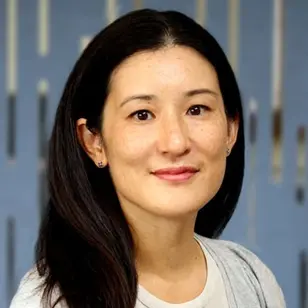
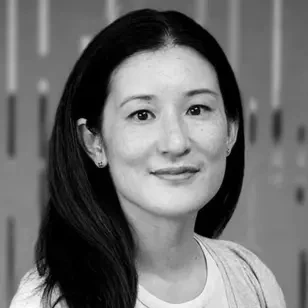
Offer copy on Services and home, Vision first on About with illustration, greyscale Frances photo

diff --git a/about.html b/about.html
@@ -1105,12 +1105,18 @@
         @media (max-width: 768px) { .page-hero { padding: 7.5rem 1.25rem 3.5rem; } }
         @media (min-width: 1024px) {
             /* Desktop: use the width. Who we are / Our vision sit side by side; the offer pairs its text with the button. */
-            #about .about-cols { display: grid; grid-template-columns: 1fr 1fr; gap: 0 5rem; }
-            #about .about-cols h2 { margin-top: 0 !important; }
-            #about .about-cols .section-desc { max-width: none !important; }
             #offer .section-inner { display: grid; grid-template-columns: minmax(0, 720px) 1fr; column-gap: 4rem; align-items: center; }
             #offer .section-inner > h2, #offer .section-inner > .section-desc { grid-column: 1; }
             #offer .section-inner > .btn-primary { grid-column: 2; grid-row: 1 / span 3; justify-self: end; }
+        }
+        /* About: vision first, with an illustration beside it on desktop */
+        #vision .vision-art { background: var(--bg-card); border-radius: 14px; padding: 1.5rem; margin-top: 2rem; }
+        #vision .vision-art img { display: block; width: 100%; height: auto; }
+        #vision .section-desc:not(:last-child) { margin-bottom: 1.25rem; }
+        #about { padding-top: 0; border-top: 0; }
+        @media (min-width: 1024px) {
+            #vision .vision-grid { display: grid; grid-template-columns: minmax(0, 1fr) minmax(0, 460px); gap: 4rem; align-items: center; }
+            #vision .vision-art { margin-top: 0; }
         }
     </style>
 </head>
@@ -1138,20 +1144,22 @@
         </div>
     </section>
 
+    <section id="vision">
+        <div class="section-inner vision-grid">
+            <div class="vision-text">
+                <h2 class="fade-up">Our vision</h2>
+                <p class="section-desc fade-up" style="max-width: 720px;">Public health decisions shape people's lives. But they are made with stretched budgets, against deep and growing inequalities, and often without the evidence decision-makers need.</p>
+                <p class="section-desc fade-up" style="max-width: 720px;">Traditional evaluation is slow. Research management takes time, and findings too often arrive after the decision has been made.</p>
+                <p class="section-desc fade-up" style="max-width: 720px;">We believe it can be done differently. By combining public health expertise with careful use of AI, we can deliver rigorous evidence faster, and spend the time saved where it matters: listening to the people a programme serves, and bringing more voices into decisions.</p>
+            </div>
+            <div class="vision-art fade-up"><img src="vision.svg" alt="Many people connected to a shared decision, illustrating more voices informing public health choices" loading="lazy"></div>
+        </div>
+    </section>
+
     <section id="about">
         <div class="section-inner">
-            <div class="about-cols">
-            <div>
             <h2 class="fade-up">Who we are</h2>
             <p class="section-desc fade-up" style="max-width: 720px;">We are a small, independent start-up of public health, evaluation and technology specialists. We evaluate complex programmes in public health, health services and public policy, and we use technology, including AI, transparently and only where it strengthens our work, with human oversight throughout.</p>
-            </div>
-            <div>
-            <h2 class="fade-up" style="margin-top: 2.5rem;">Our vision</h2>
-            <p class="section-desc fade-up" style="max-width: 720px;">Public health decisions shape people's lives. But they are made with stretched budgets, against deep and growing inequalities, and often without the evidence decision-makers need.</p>
-            <p class="section-desc fade-up" style="max-width: 720px;">Traditional evaluation is slow. Research management takes time, and findings too often arrive after the decision has been made.</p>
-            <p class="section-desc fade-up" style="max-width: 720px;">We believe it can be done differently. By combining public health expertise with careful use of AI, we can deliver rigorous evidence faster, and spend the time saved where it matters: listening to the people a programme serves, and bringing more voices into decisions.</p>
-            </div>
-            </div>
         </div>
     </section>
 

diff --git a/services.html b/services.html
@@ -369,7 +369,7 @@
         }
 
         #about .section-desc:not(:last-child),
-        #offer .section-desc:not(:last-child) {
+        #offer .section-desc:not(:last-child), #offer .offer-lead {
             margin-bottom: 1.25rem;
         }
 
@@ -1096,6 +1096,7 @@
             transform: translateY(0);
         }
 
+        #offer .offer-lead { font-size: 1.1rem; font-weight: 600; color: var(--accent); line-height: 1.5; margin-bottom: 1rem; }
         /* Sub-page header: shorter variant of the hero */
         .page-hero { padding: clamp(8rem, 16vw, 11rem) 2rem clamp(3.5rem, 7vw, 5.5rem); }
         .page-hero + section { border-top: 0; }
@@ -1103,15 +1104,6 @@
         .more-link::after { content: '\2192'; margin-left: 0.4rem; display: inline-block; transition: transform 0.2s; }
         .more-link:hover::after { transform: translateX(3px); }
         @media (max-width: 768px) { .page-hero { padding: 7.5rem 1.25rem 3.5rem; } }
-        @media (min-width: 1024px) {
-            /* Desktop: use the width. Who we are / Our vision sit side by side; the offer pairs its text with the button. */
-            #about .about-cols { display: grid; grid-template-columns: 1fr 1fr; gap: 0 5rem; }
-            #about .about-cols h2 { margin-top: 0 !important; }
-            #about .about-cols .section-desc { max-width: none !important; }
-            #offer .section-inner { display: grid; grid-template-columns: minmax(0, 720px) 1fr; column-gap: 4rem; align-items: center; }
-            #offer .section-inner > h2, #offer .section-inner > .section-desc { grid-column: 1; }
-            #offer .section-inner > .btn-primary { grid-column: 2; grid-row: 1 / span 3; justify-self: end; }
-        }
     </style>
 </head>
 <body>
@@ -1135,6 +1127,16 @@
         <div class="hero-content">
             <h1>Services</h1>
             <p class="hero-sub">How we evaluate complex programmes, and where our expertise lies.</p>
+        </div>
+    </section>
+
+    <section id="offer">
+        <div class="section-inner">
+            <h2 class="fade-up">Five free evaluations</h2>
+            <p class="offer-lead fade-up">We're looking for early stage partners to test and refine our approach.</p>
+            <p class="section-desc fade-up" style="max-width: 720px;">We are a young company who are confident our approach works and are looking for partners with whom to keep refining and testing it. This year we are offering five evaluations pro bono, for projects worth up to £20,000.</p>
+            <p class="section-desc fade-up" style="max-width: 720px;">Have you run a project in the last year that you would like to understand better? We would love to help.</p>
+            <a href="#contact" class="btn-primary fade-up">Get in touch</a>
         </div>
     </section>
 

diff --git a/index.html b/index.html
@@ -1105,6 +1105,7 @@
         .cta-light .cta-box h2 { color: var(--text); }
         .cta-light .cta-box p { color: var(--text-secondary); }
 
+        #offer .offer-lead { font-size: 1.1rem; font-weight: 600; color: var(--accent); line-height: 1.5; margin-bottom: 1rem; }
         /* Home: who we are with the two founders */
         .about-people { list-style: none; display: flex; flex-wrap: wrap; gap: 1rem; margin-top: 2rem; }
         .about-people li { display: flex; flex-direction: column; align-items: center; text-align: center; width: 96px; }
@@ -1134,7 +1135,8 @@
             .work-offer > #offer { border-top: 0; margin: calc(5rem + 1.1 * clamp(2rem, 1.2rem + 2vw, 2.9rem) + 2.5rem) 0 6rem; padding: 2.5rem; background: var(--bg-card); border-radius: 14px; border: 1px solid var(--border-strong); display: flex; flex-direction: column; justify-content: center; align-items: flex-start; }
             .work-offer > #offer .section-inner { max-width: none; margin: 0; }
             .work-offer > #offer h2 { font-size: 2.2rem; }
-            .work-offer > #offer .section-desc { font-size: 1.1rem; max-width: none !important; }
+            .work-offer > #offer .section-desc { font-size: 1rem; max-width: none !important; }
+            .work-offer > #offer .offer-lead { font-size: 1.05rem; }
             #about .about-cols { display: grid; grid-template-columns: 1fr 1fr; gap: 0 5rem; }
             #about .about-cols h2 { margin-top: 0 !important; }
             #about .about-cols .section-desc { max-width: none !important; }
@@ -1192,7 +1194,8 @@
     <section id="offer">
         <div class="section-inner">
             <h2 class="fade-up">Five free evaluations</h2>
-            <p class="section-desc fade-up" style="max-width: 720px;">We are confident our approach works, and we want to keep refining it with real projects. This year we are offering five evaluations pro bono, for projects worth up to £20,000.</p>
+            <p class="offer-lead fade-up">We're looking for early stage partners to test and refine our approach.</p>
+            <p class="section-desc fade-up" style="max-width: 720px;">We are a young company who are confident our approach works and are looking for partners with whom to keep refining and testing it. This year we are offering five evaluations pro bono, for projects worth up to £20,000.</p>
             <p class="section-desc fade-up" style="max-width: 720px;">Have you run a project in the last year that you would like to understand better? We would love to help.</p>
             <a href="#contact" class="btn-primary fade-up">Get in touch</a>
         </div>
